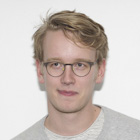
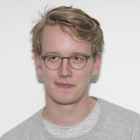
Add team photos

Changed region(s): [[0.0, 0.0286, 1.0, 1.0], [0.9143, 0.9714, 0.9429, 1.0], [0.8, 0.8857, 0.8286, 0.9143]]

diff --git a/index.html b/index.html
@@ -111,7 +111,7 @@
 
 					<div class="iconbox wow slideInLeft">
 						<div class="iconbox-icon">
-							<span class="icon-magic-wand"></span>
+							<img src="assets/images/seyoung.jpg" alt="seyoung"/>
 						</div>
 						<div class="iconbox-text">
 							<h3 class="iconbox-title">Seyoung</h3>
@@ -155,7 +155,7 @@
 
 					<div class="iconbox wow slideInRight">
 						<div class="iconbox-icon">
-							<span class="icon-badge"></span>
+							<img src="assets/images/hai.jpg" alt="hai"/>
 						</div>
 						<div class="iconbox-text">
 							<h3 class="iconbox-title">Hai</h3>
@@ -178,7 +178,7 @@
 
 					<div class="iconbox wow slideInRight">
 						<div class="iconbox-icon">
-							<span class="icon-question"></span>
+							<img src="assets/images/brod.jpg" alt="brod"/>
 						</div>
 						<div class="iconbox-text">
 							<h3 class="iconbox-title">Broderick</h3>
@@ -203,7 +203,7 @@
 
 					<div class="iconbox wow slideInLeft">
 						<div class="iconbox-icon">
-							<span class="icon-magic-wand"></span>
+							<img src="assets/images/alison.jpg" alt="alison"/>
 						</div>
 						<div class="iconbox-text">
 							<h3 class="iconbox-title">Alison</h3>
@@ -222,7 +222,7 @@
 
 					<div class="iconbox wow slideInLeft">
 						<div class="iconbox-icon">
-							<span class="icon-puzzle"></span>
+							<img src="assets/images/terho.jpg" alt="terho"/>
 						</div>
 						<div class="iconbox-text">
 							<h3 class="iconbox-title">Terho</h3>
@@ -243,7 +243,7 @@
 
 					<div class="iconbox wow slideInRight">
 						<div class="iconbox-icon">
-							<span class="icon-badge"></span>
+							<img src="assets/images/rasmus.jpg" alt="rasmus"/>
 						</div>
 						<div class="iconbox-text">
 							<h3 class="iconbox-title">Rasmus</h3>
@@ -265,7 +265,7 @@
 
 					<div class="iconbox wow slideInRight">
 						<div class="iconbox-icon">
-							<span class="icon-question"></span>
+							<img src="assets/images/Pejam.jpg" alt="Pejam"/>
 						</div>
 						<div class="iconbox-text">
 							<h3 class="iconbox-title">Pejam</h3>
